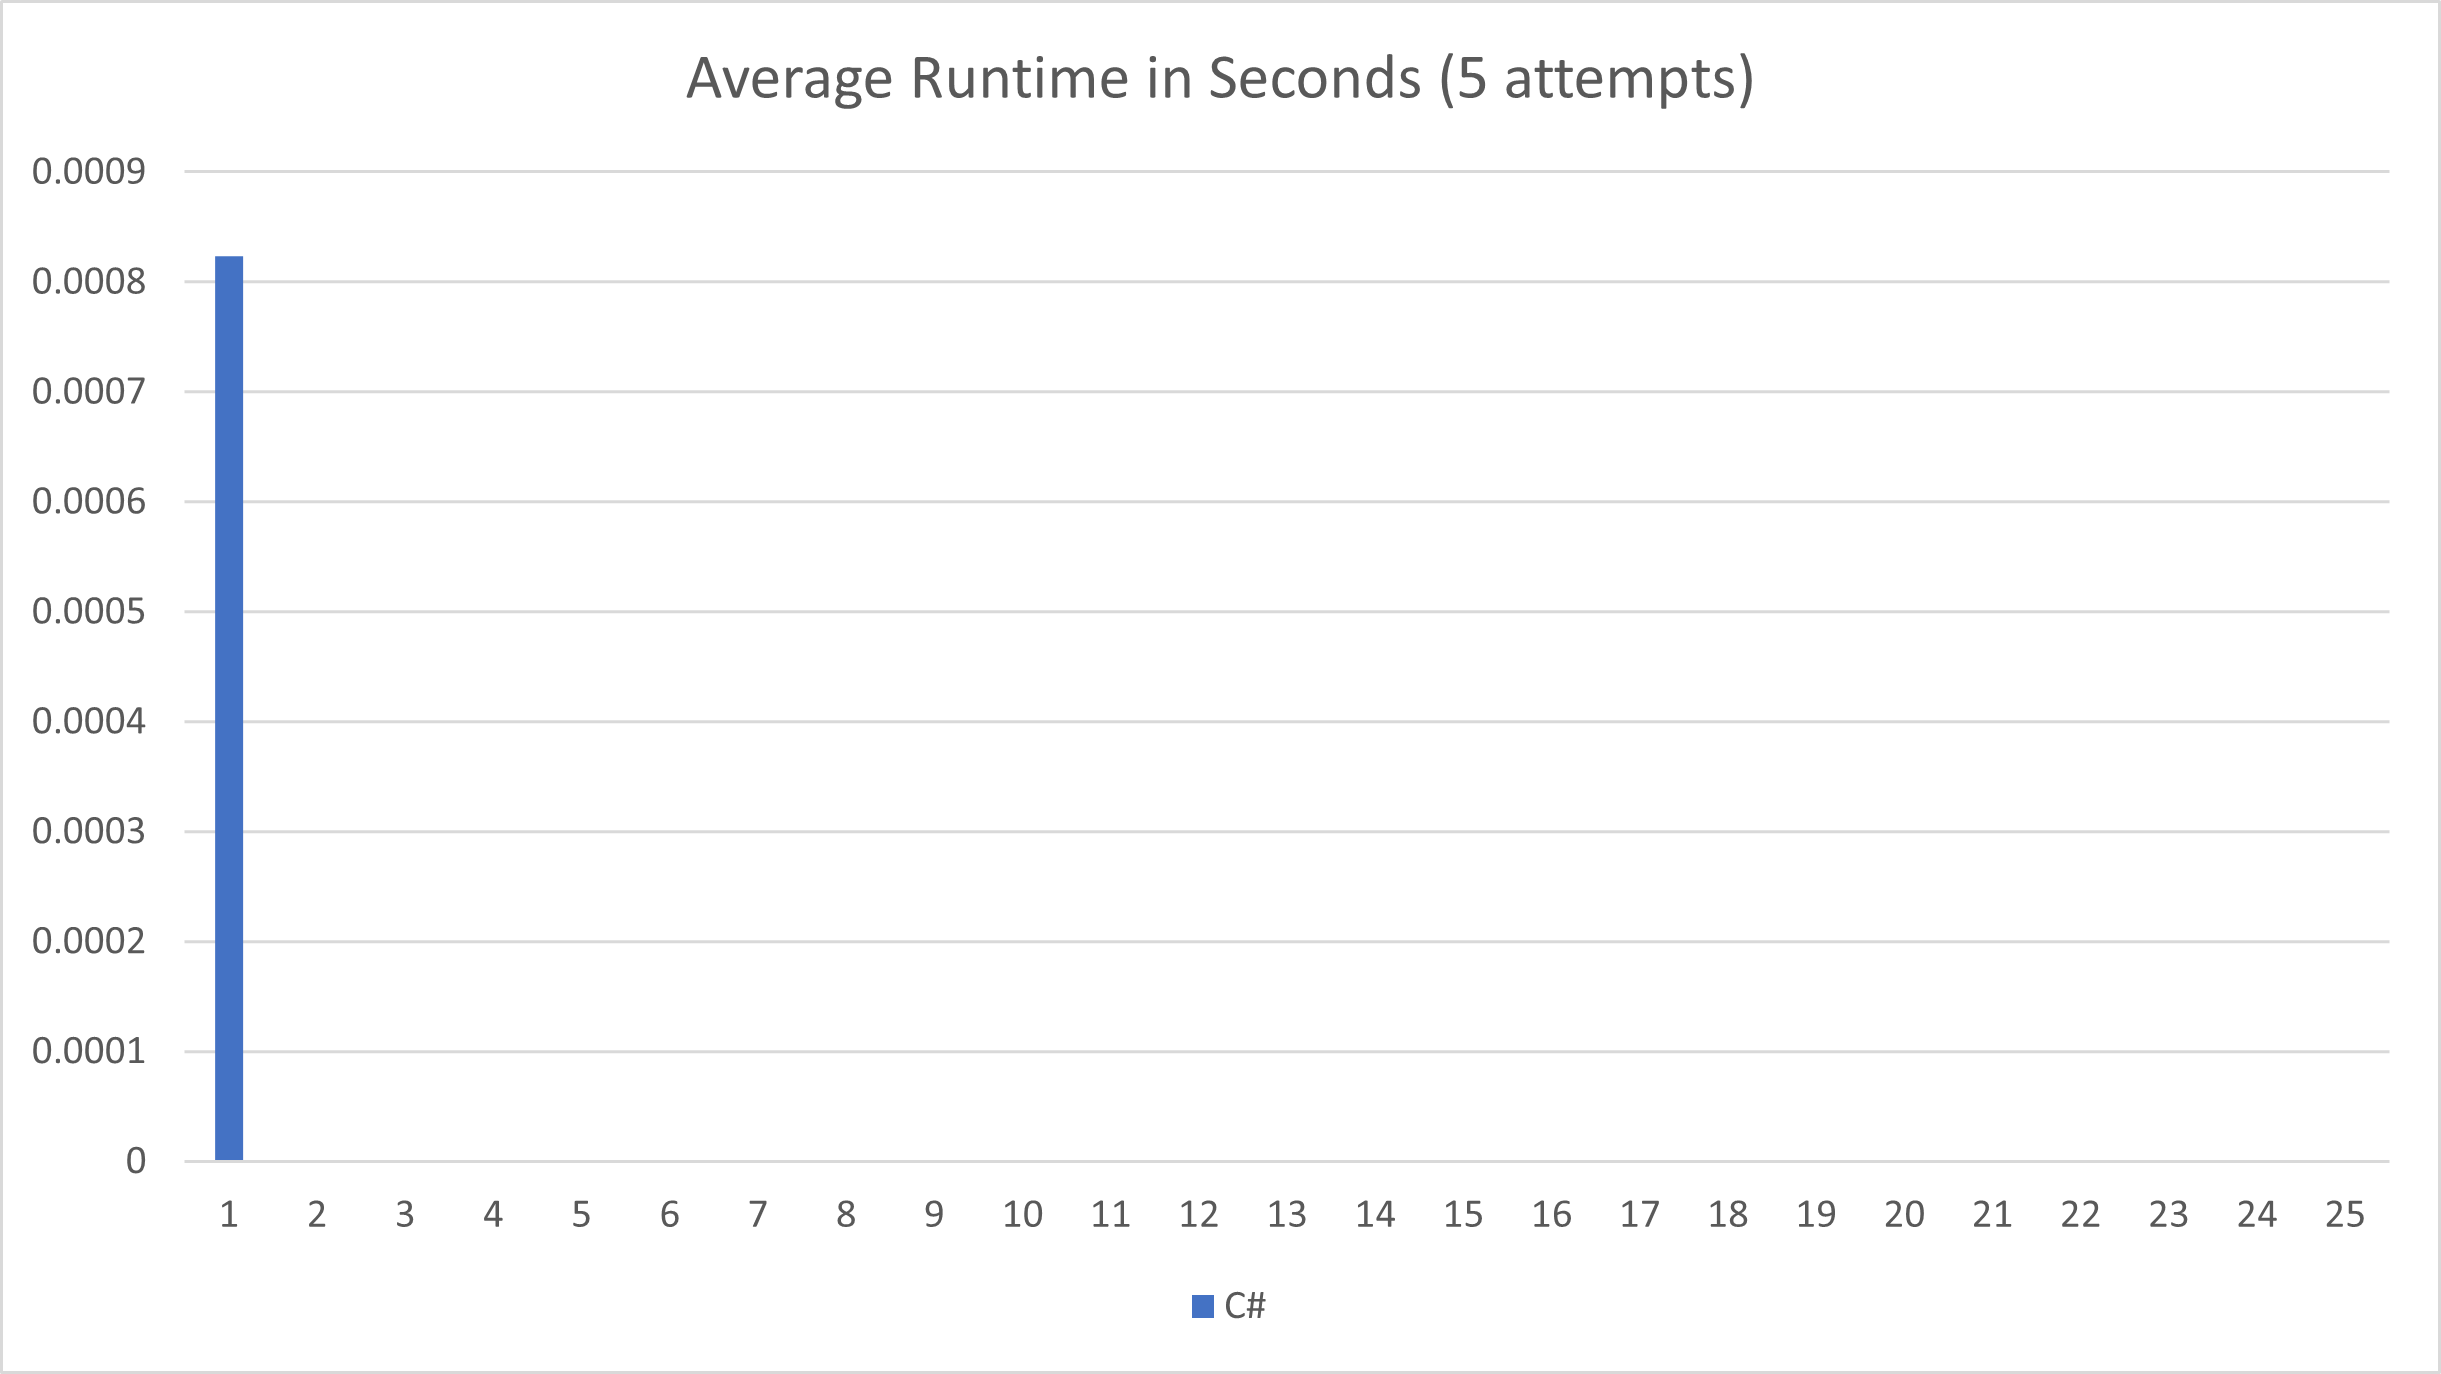
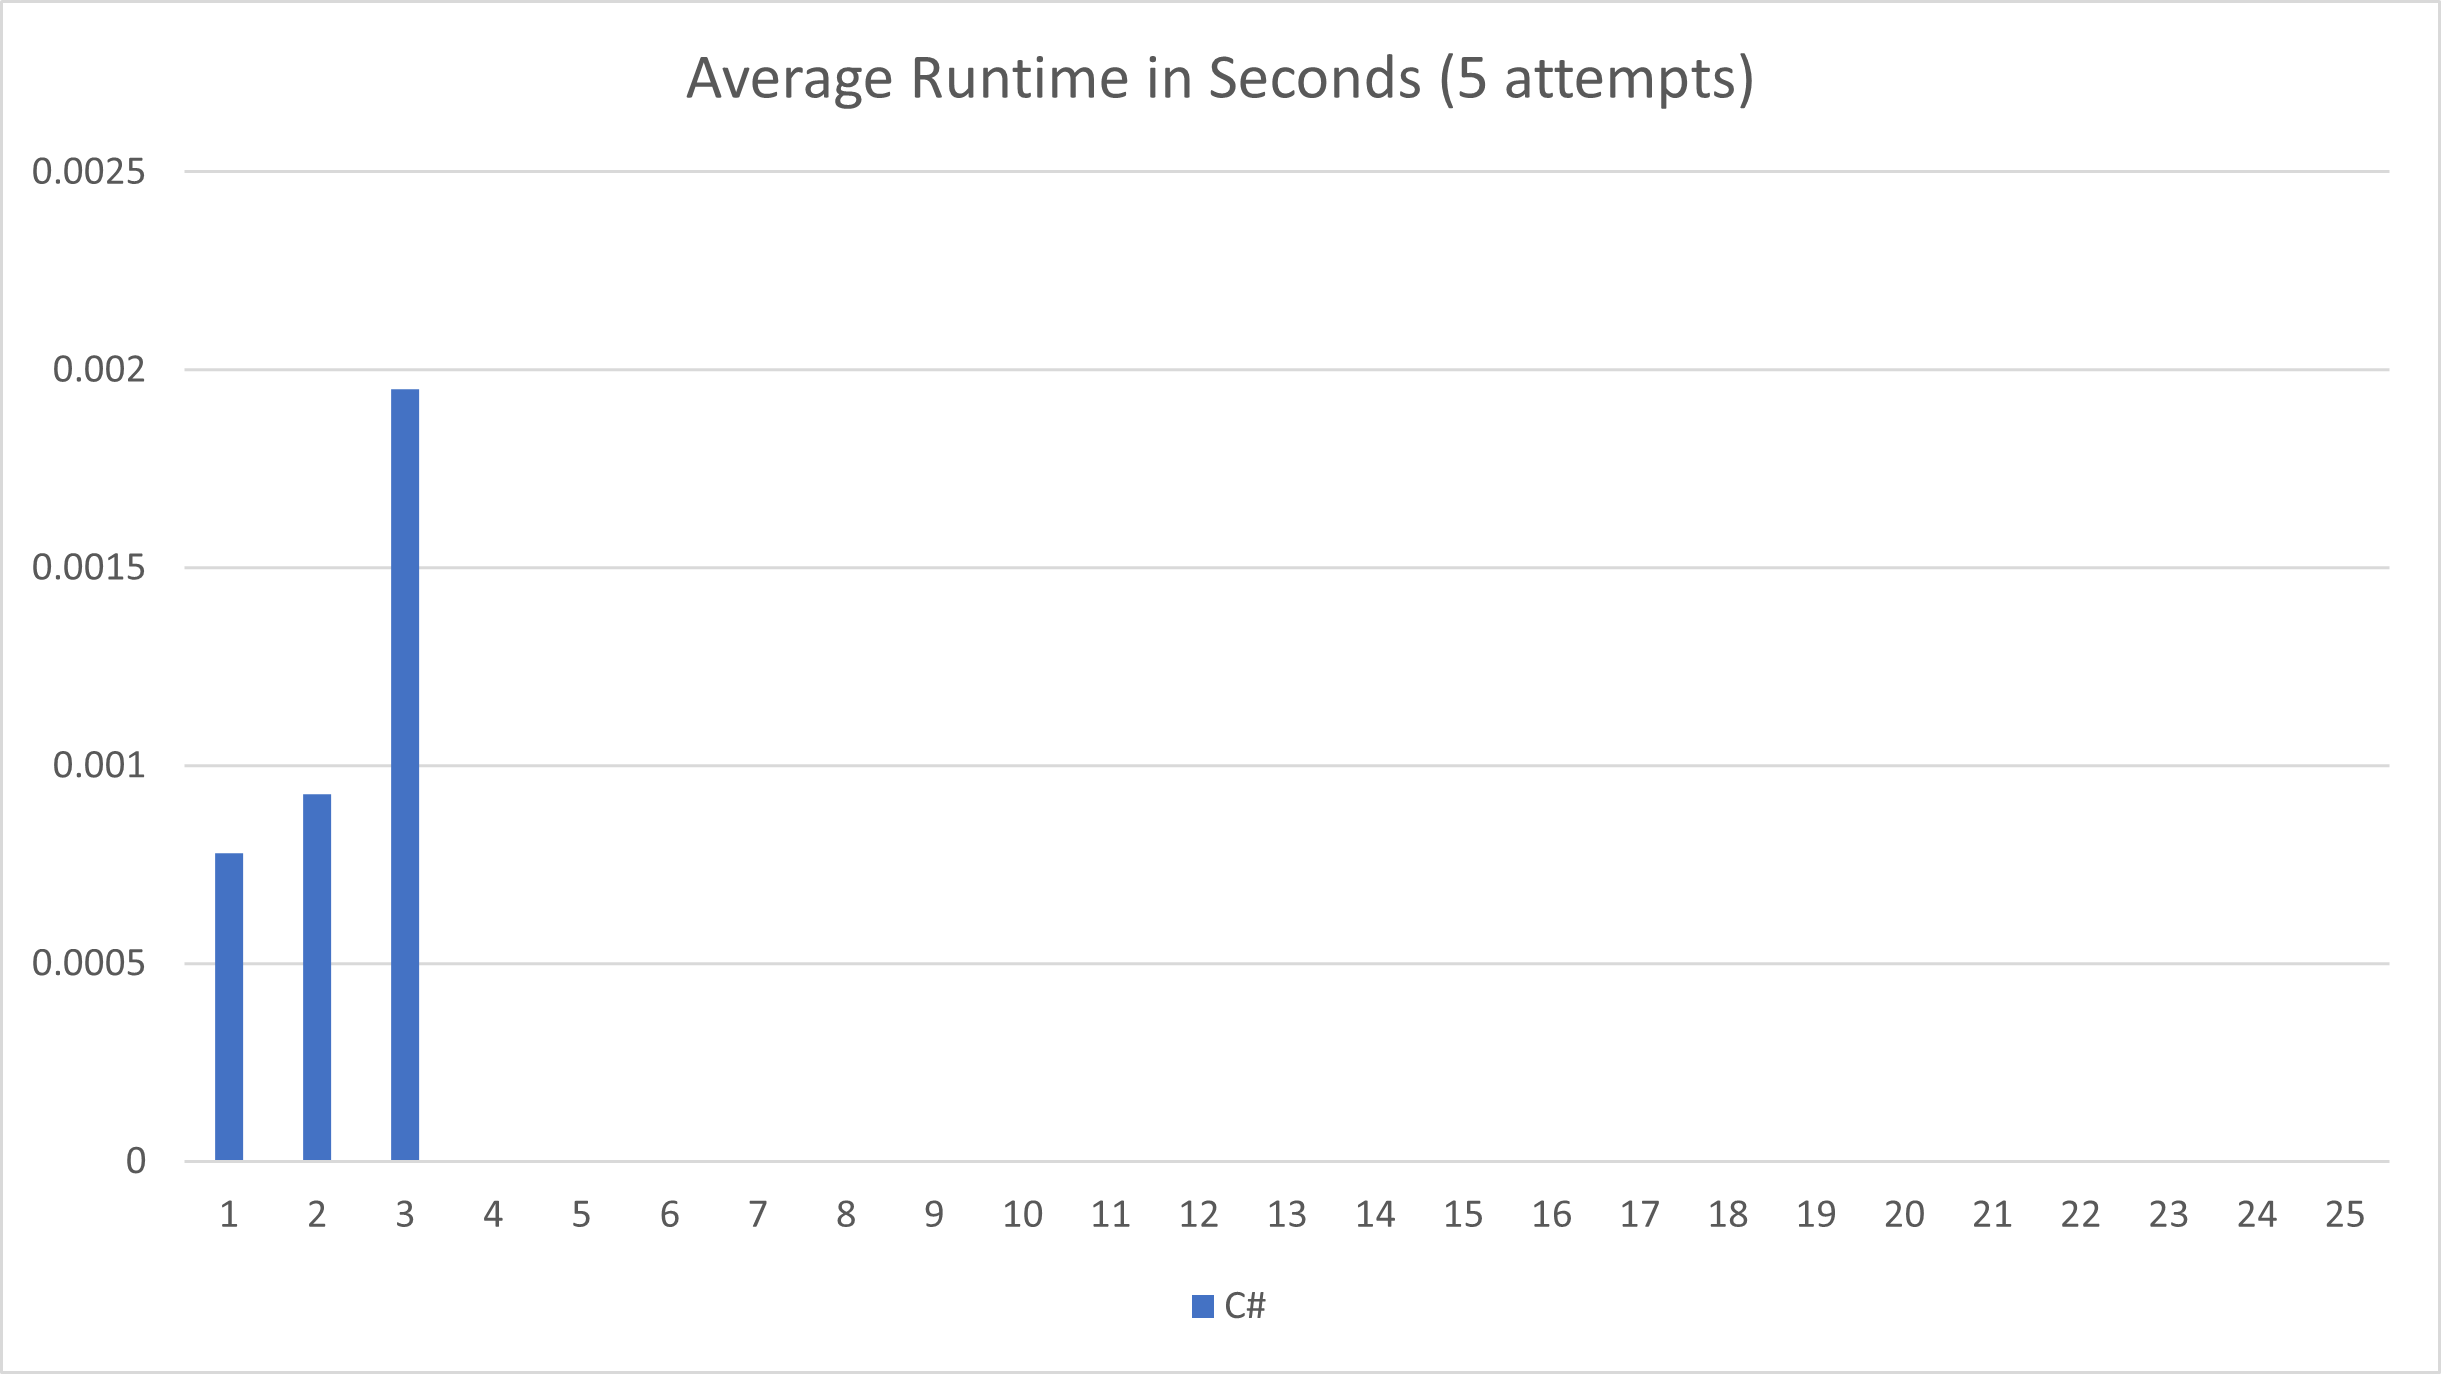
Update outputs after day 3

Changed region(s): [[0.0, 0.1834, 0.9652, 0.8559], [0.0311, 0.7336, 0.0623, 0.7948], [0.0, 0.6725, 0.0623, 0.7031]]

diff --git a/README.md b/README.md
@@ -1,18 +1,16 @@
 # Advent of Code 2021
 Solutions to [Advent of Code 2021](https://adventofcode.com/2021)
 
-Once again, I participated in Advent of Code for practice and fun. Here you'll find solutions clever and comical,
-flawed and forgettable. Some done in a rush in the middle of the night, and (eventually) some done months later and
-carefully refined for performance or simply to try out a new language feature.
+We're doin' it again!
 
 This year I'm hoping to lower the time committment by solving first in C#. I will likely end up solving some in other
-languages and will track which solutions I've done, using the chart below.
+languages later and will track which solutions I've done, using the chart below.
 
 ## Progress
 
 |      |1|2|3|4|5|6|7|8|9|10|11|12|13|14|15|16|17|18|19|20|21|22|23|24|25|
 |------|-|-|-|-|-|-|-|-|-|--|--|--|--|--|--|--|--|--|--|--|--|--|--|--|--|
-|**C#**|🌟|☆|☆|☆|☆|☆|☆|☆|☆|☆|☆|☆|☆|☆|☆|☆|☆|☆|☆|☆|☆|☆|☆|☆|☆|
+|**C#**|🌟|🌟|🌟|☆|☆|☆|☆|☆|☆|☆|☆|☆|☆|☆|☆|☆|☆|☆|☆|☆|☆|☆|☆|☆|☆|
 
 ⭐ - First star completed\
 🌟 - Both stars completed
@@ -30,3 +28,4 @@ C# - [output.txt](csharp/output.txt)
 
 ## Links
 * [Advent of Code](https://adventofcode.com)
+* [Last Year's Solutions](https://github.com/efrees/adventofcode2020)
